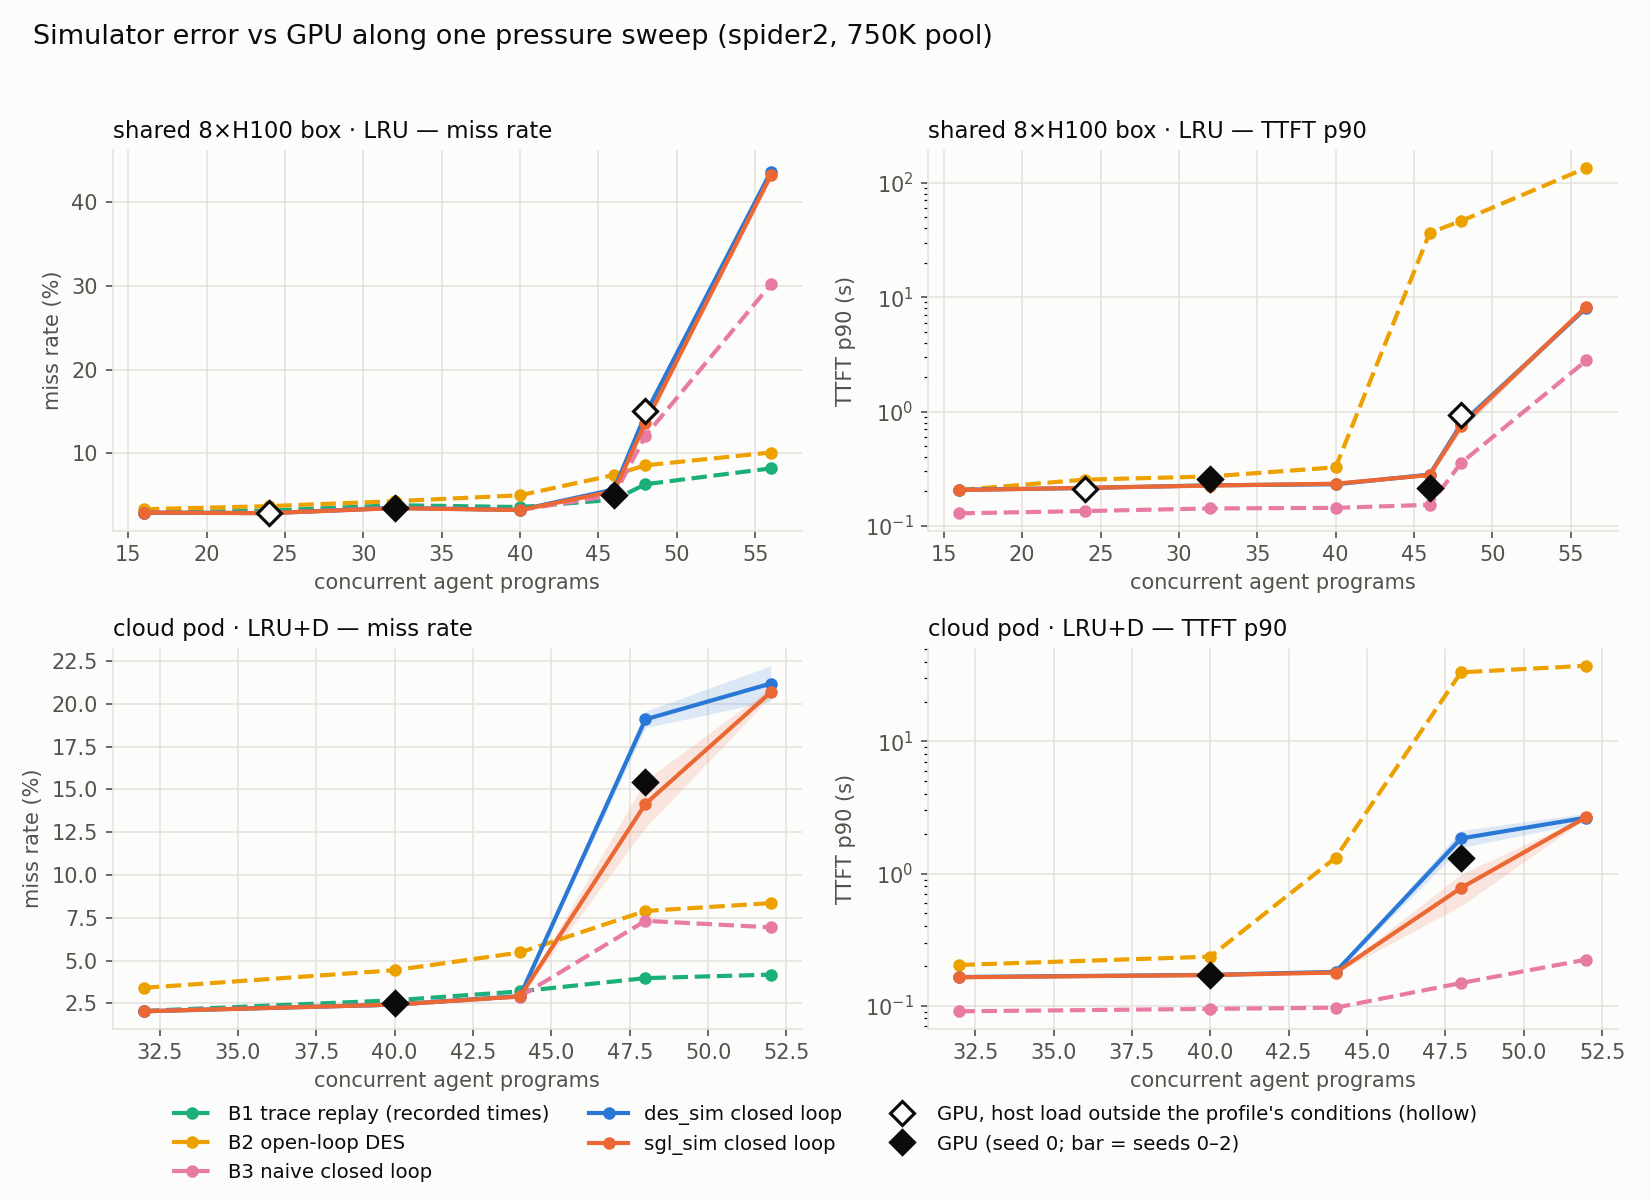
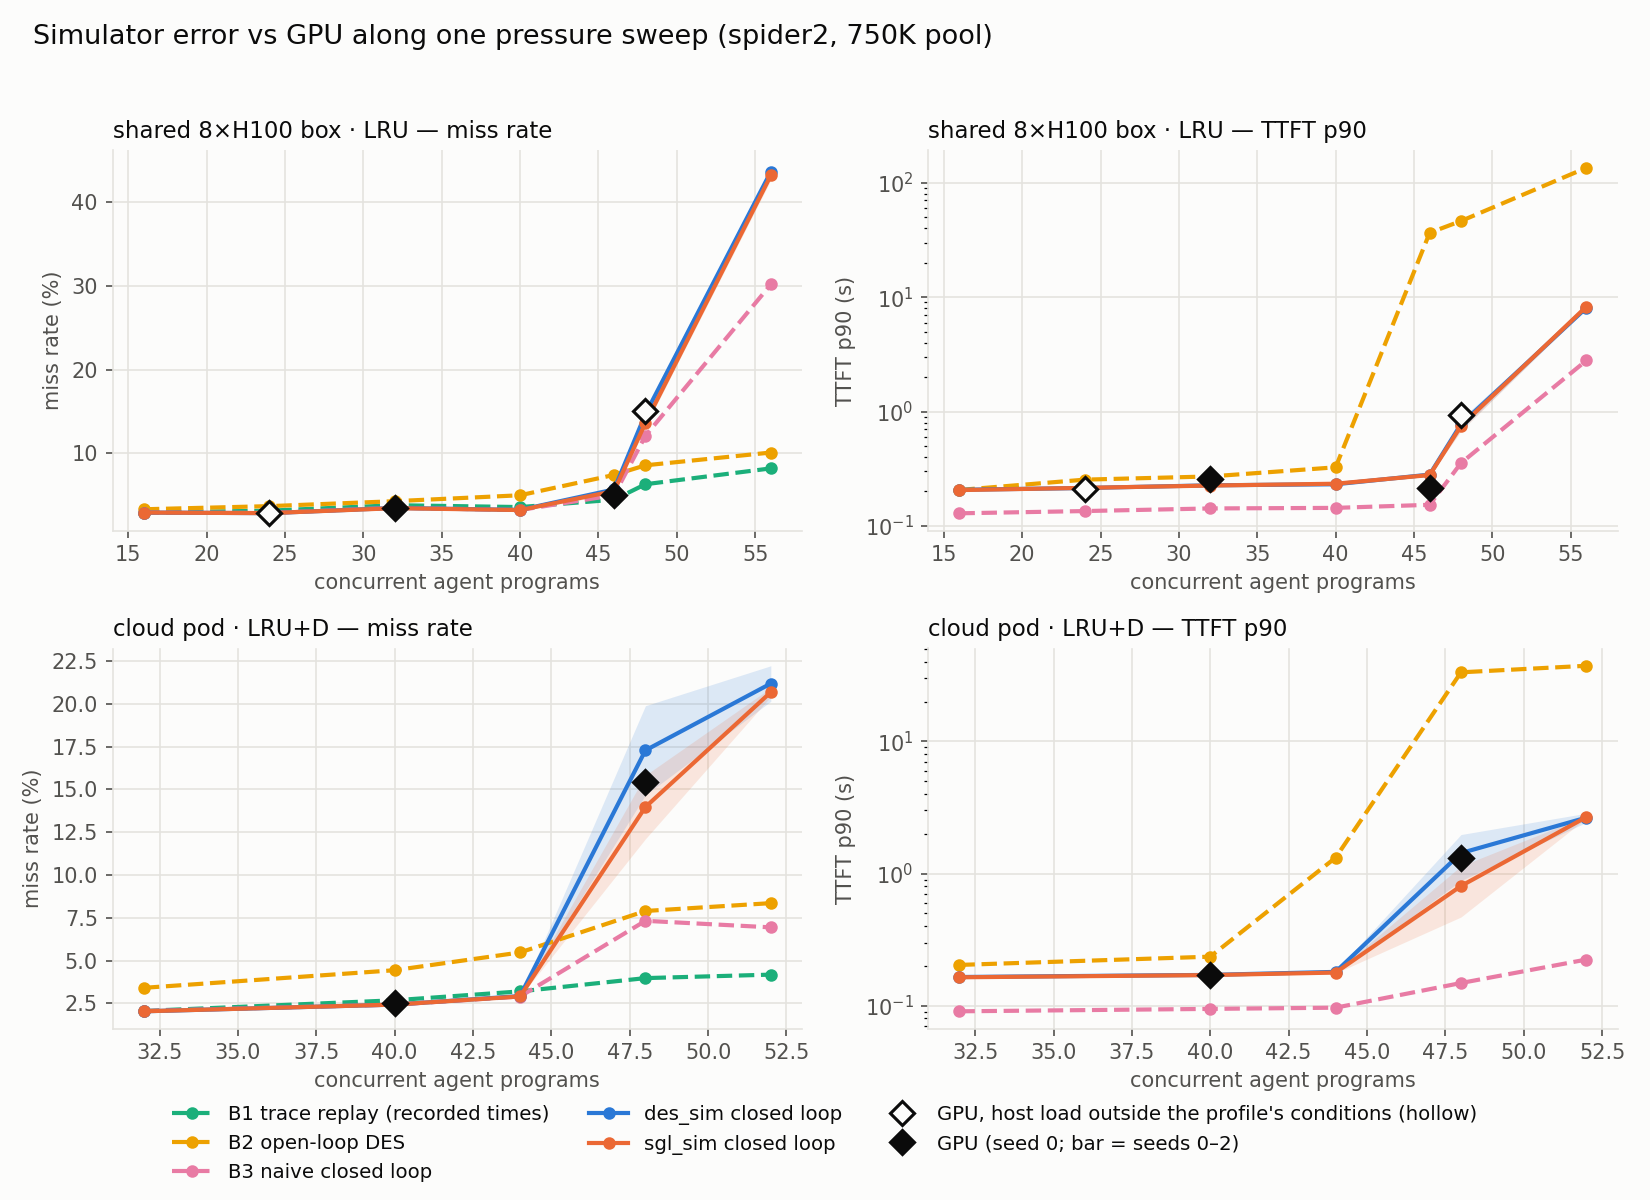
ladder: pod c48 at 10 noise seeds and on both arms' own tokens; policy sign unresolved
- pod c48 seeds 4-10 for des_sim and sgl_sim (run_ladder_tok.sh NSEEDS=), plus the RR-C+D arm's own
  token stream (pod48rr). Paired delta RR-C+D - LRU+D: des_sim -0.92+-0.37 / -0.12+-0.91, sgl_sim
  +1.57+-0.87 / +0.81+-0.69 (se) on the two token streams, GPU -1.56 from one run per arm. The
  3-seed "only des_sim gets the sign" finding is withdrawn.
- the two GPU arms dropped different turns; switching token stream moves the simulated wall by
  1.5-2 pp, as much as the policy does
- analysis/wall_windows.py: GPU vs simulator 5-minute windows (mean +- sd over seeds). Onset and
  LRU+D recovery match; the GPU RR-C+D run recovers faster than 35/40 simulated runs
- ladder_report.py: own-token delta rows per point, sign-only note on the delta table

Changed region(s): [[0.34, 0.555, 0.4636, 0.7708], [0.8036, 0.6783, 0.9582, 0.8017], [0.3091, 0.7708, 0.34, 0.8017]]

diff --git a/analysis/ladder_report.py b/analysis/ladder_report.py
@@ -129,7 +129,7 @@ def write_md(R, G, path, png, tk=None, prev_md=None, own=None):
          "", "- **B1** trace-driven cache replay (`offline_replay.py`): every turn at its recorded time and recorded service time, trials re-packed to the target concurrency (`retime_for_concurrency`); no server model, so no TTFT.",
          "- **B2** open-loop DES (`scripts/ladder/b2_openloop.py --no-stitch`): des_sim's scheduler/cache/step costs, but each (program, turn) arrives at B1's recorded time; completions never feed back.",
          "- **B3** naive closed loop (`closed_loop_sim.py`, defaults incl. decode_overlap 0.5) with its 6 step-cost parameters least-squares projected from the same machine profile (`scripts/ladder/fit_b3_params.py`); no host-load model.",
-         "- **DES** des_sim closed loop, **SGL** sgl_sim closed loop (real SGLang Scheduler + event_loop_overlap, via `scripts/ladder/sgl_tok.py`); both mean ± sd over 3 noise seeds, v1 machine profiles (`local8xh100.json`, `pod0920.json`), host-load timeline of the token arm (local box only).",
+         "- **DES** des_sim closed loop, **SGL** sgl_sim closed loop (real SGLang Scheduler + event_loop_overlap, via `scripts/ladder/sgl_tok.py`); both mean ± sd over 3 noise seeds (10 at pod c48), v1 machine profiles (`local8xh100.json`, `pod0920.json`), host-load timeline of the token arm (local box only).",
          "- **GPU** `gpu_windows.py` on the arm's server.log (local8xh100 = shared 8×H100 box; pod0920 = cloud pod).",
          f"- **Host load is not modelled**: every simulator runs at its machine profile's conditions (no `--load-from`). GPU runs whose host load (cotenant.log `load=`) was outside the profile's envelope -- median > {LOAD_MEDIAN_MAX:.0f} or p10–p90 spread > {LOAD_SPREAD_MAX:.0f} -- are marked **环境超出档案条件**; they are listed but not used for conclusions, and their gaps are not read as simulator error.",
          "- **token** = GPU arm whose ids the point replays (all methods, all policy arms). `*` = borrowed from another concurrency/seed (sim-only points, or a point whose GPU arm is another seed) — same stream, same client type where possible; GPU arms of one point agree on 74–98 % of outputs and on every prompt length.",
@@ -159,6 +159,7 @@ def write_md(R, G, path, png, tk=None, prev_md=None, own=None):
         L.append("")
     # policy-delta sign agreement
     L += ["## Does the simulator get the policy decision right? Δ = RR-C+D − LRU+D (miss pp / U p99 %)", "",
+          "✓ / ✗ compare signs only (Δmiss and ΔU p99 both), not significance; sim Δ is the difference of the seed means. Wall points need the per-seed spread in the Findings.", "",
           "| machine | conc | seed | GPU Δmiss | GPU ΔU p99 | " + " | ".join(f"{m} Δmiss / ΔU p99" for m in METHODS) + " |", "|" + "---|" * (5 + len(METHODS))]
     Ds = [(R, "")] + [(Ro, " (" + token_label({}, *next(iter(Ro))[:3], d) + " tokens)") for Ro, d in (own or (None, {}))[2:]]
     for (k, RD, lab) in sorted(((k, RD, lab) for RD, lab in Ds for k in {(m, c, s) for (m, c, s, a) in RD}), key=lambda x: (x[0], x[2])):
@@ -242,7 +243,10 @@ def main():
     a = ap.parse_args()
     R = collect_sims(a.runs); G = collect_gpu(a.gpu_json); tk = token_arms(a.runs)
     Rrow, tka = own_token_rows(R, G, tk, a.own_runs)
-    extra = [(collect_sims(r), next(iter(token_arms(r).values()))) for r in a.own_runs]   # whole own-token points, for the Δ table
+    extra = []   # whole own-token points (all arms on that token stream), one Δ-table row each
+    for r in a.own_runs:
+        Ro = collect_sims(r)
+        for p, d in sorted(token_arms(r).items()): extra.append(({k: v for k, v in Ro.items() if k[:3] == p}, d))
     write_md(R, G, a.md, a.png, tk, a.prev_md, (Rrow, tka, *extra)); plot(Rrow, G, a.png); print("wrote", a.md)
 
 

diff --git a/analysis/wall_windows.py b/analysis/wall_windows.py
@@ -1,0 +1,44 @@
+#!/usr/bin/env python3
+"""Wall dynamics, window by window: GPU 5-minute windows (gpu_windows.py --json) next to the des_sim / sgl_sim windows of one
+ladder point, mean ± sd over noise seeds. Shows WHEN a wall point diverges (onset, depth, recovery) rather than only the total.
+
+usage: wall_windows.py GPU_JSON POINT_DIR [POINT_DIR ...] --arms rrdeclband0.001,rrdeclchunk1024 [--key miss]
+  GPU_JSON arms are matched to an arm name by the last path component of their directory."""
+import argparse, glob, json, os, re
+import numpy as np
+
+
+def sim_windows(point, key):
+    """-> {(method, arm): [[window values] per seed]}"""
+    out = {}
+    for f in glob.glob(os.path.join(point, "des_n*", "summary.json")):
+        for arm, v in json.load(open(f))["arms"].items():
+            out.setdefault(("DES", arm), []).append([w[key] for w in v["windows"]])
+    for f in glob.glob(os.path.join(point, "sgl_n*", "summary_*.json")):
+        v = json.load(open(f)); out.setdefault(("SGL", v["arm"]), []).append([w[key] for w in v["windows"]])
+    return out
+
+
+def main():
+    ap = argparse.ArgumentParser(description=__doc__, formatter_class=argparse.RawDescriptionHelpFormatter)
+    ap.add_argument("gpu_json"); ap.add_argument("points", nargs="+"); ap.add_argument("--arms", required=True); ap.add_argument("--key", default="miss")
+    a = ap.parse_args(); arms = a.arms.split(",")
+    G = {os.path.basename(d.rstrip("/")): [w[a.key] for w in v["windows"]] for d, v in json.load(open(a.gpu_json)).items()}
+    for arm in arms:
+        g = G.get(arm, [])
+        print(f"== {arm}   ({a.key} per 5-min window)")
+        print("   " + "".join(f"{f'{5 * i}-{5 * i + 5}':>13}" for i in range(max(len(g), 8))))
+        print("GPU" + "".join(f"{x:13.2f}" for x in g))
+        for p in a.points:
+            tok = open(os.path.join(p, "token_arm.txt")).read().split()[0] if os.path.exists(os.path.join(p, "token_arm.txt")) else "?"
+            for (meth, ar), runs in sorted(sim_windows(p, a.key).items()):
+                if ar != arm: continue
+                n = max(map(len, runs)); M = np.full((len(runs), n), np.nan)
+                for i, r in enumerate(runs): M[i, :len(r)] = r
+                mu, sd = np.nanmean(M, 0), np.nanstd(M, 0)
+                print(f"{meth} tok={tok} ×{len(runs)}".ljust(3) + "\n   " + "".join(f"{m:8.2f}±{s:4.1f}" for m, s in zip(mu, sd)))
+        print()
+
+
+if __name__ == "__main__":
+    main()

diff --git a/docs/MOTIVATION_LADDER.md b/docs/MOTIVATION_LADDER.md
@@ -1,17 +1,17 @@
 # Motivation baseline ladder — spider2 terminus x2, 750K pool, fcfs
 
-Generated by `analysis/ladder_report.py` from `scripts/ladder/run_ladder_tok.sh` (v2, 2026-09-28; c46 own-token rows added the same day). **Every method replays the same server-side token input**: the ids one GPU arm of that point actually sent/generated (`scripts/ladder/make_token_stream.py` = `des_sim.ids_from_gpu`), so only the timing / scheduling model differs between methods. Scoring = warm turns, 300 s head / 60 s tail cut, same as `gpu_windows.py`.
+Generated by `analysis/ladder_report.py` from `scripts/ladder/run_ladder_tok.sh` (v2, 2026-09-28). **Every method replays the same server-side token input**: the ids one GPU arm of that point actually sent/generated (`scripts/ladder/make_token_stream.py` = `des_sim.ids_from_gpu`), so only the timing / scheduling model differs between methods. Scoring = warm turns, 300 s head / 60 s tail cut, same as `gpu_windows.py`.
 
 - **B1** trace-driven cache replay (`offline_replay.py`): every turn at its recorded time and recorded service time, trials re-packed to the target concurrency (`retime_for_concurrency`); no server model, so no TTFT.
 - **B2** open-loop DES (`scripts/ladder/b2_openloop.py --no-stitch`): des_sim's scheduler/cache/step costs, but each (program, turn) arrives at B1's recorded time; completions never feed back.
 - **B3** naive closed loop (`closed_loop_sim.py`, defaults incl. decode_overlap 0.5) with its 6 step-cost parameters least-squares projected from the same machine profile (`scripts/ladder/fit_b3_params.py`); no host-load model.
-- **DES** des_sim closed loop, **SGL** sgl_sim closed loop (real SGLang Scheduler + event_loop_overlap, via `scripts/ladder/sgl_tok.py`); both mean ± sd over 3 noise seeds, v1 machine profiles (`local8xh100.json`, `pod0920.json`), host-load timeline of the token arm (local box only).
+- **DES** des_sim closed loop, **SGL** sgl_sim closed loop (real SGLang Scheduler + event_loop_overlap, via `scripts/ladder/sgl_tok.py`); both mean ± sd over 3 noise seeds (10 at pod c48), v1 machine profiles (`local8xh100.json`, `pod0920.json`), host-load timeline of the token arm (local box only).
 - **GPU** `gpu_windows.py` on the arm's server.log (local8xh100 = shared 8×H100 box; pod0920 = cloud pod).
 - **Host load is not modelled**: every simulator runs at its machine profile's conditions (no `--load-from`). GPU runs whose host load (cotenant.log `load=`) was outside the profile's envelope -- median > 100 or p10–p90 spread > 60 -- are marked **环境超出档案条件**; they are listed but not used for conclusions, and their gaps are not read as simulator error.
 - **token** = GPU arm whose ids the point replays (all methods, all policy arms). `*` = borrowed from another concurrency/seed (sim-only points, or a point whose GPU arm is another seed) — same stream, same client type where possible; GPU arms of one point agree on 74–98 % of outputs and on every prompt length.
 - **own** = a row whose GPU arm was run separately from the point's token arm replays that GPU arm's own tokens (`--own-runs`). Two GPU runs of one point can drop different programs mid-run (client ServerDisconnectedError), so they are different workloads: local c46 LRU dropped 93 turns of one program, RR-C+D 90 turns of two others; on the common turns the two token streams give the same B1 miss to the digit. The Δ table below always compares arms on ONE token stream.
 
-Figure: `motivation_ladder.png`
+Figure: `docs/motivation_ladder.png`
 
 ## local8xh100
 
@@ -55,12 +55,14 @@ Figure: `motivation_ladder.png`
 | 40 | 0 | c40s0/rrdeclband0.001 | RR-C+D | n/a (pod, steady) | 2.46 | 2.96 (+0.50) | 5.07 (+2.61) | 2.42 (-0.04) | 2.44±0.00 (-0.02) | 2.42±0.01 (-0.04) | 3656 | 5734 (+57%) | 14013 (+283%) | 3648 (-0%) | 3636 (-1%) | 3645 (-0%) | 0.173 | 0.253 (+46%) | 0.097 (-44%) | 0.174 (+0%) | 0.173 (-0%) |
 | 44 | 0 | c40s0/rrdeclband0.001 * | LRU+D | – | – | 3.20 | 5.48 | 2.90 | 2.93±0.02 | 2.90±0.02 | – | 10905 | 19386 | 3802 | 3990 | 3973 | – | 1.318 | 0.097 | 0.180 | 0.178 |
 | 44 | 0 | c40s0/rrdeclband0.001 * | RR-C+D | – | – | 4.14 | 6.08 | 3.39 | 3.59±0.04 | 3.56±0.11 | – | 10109 | 20408 | 6800 | 7662 | 7716 | – | 2.255 | 0.107 | 0.190 | 0.189 |
-| 48 | 0 | c48s0/rrdeclband0.001 | LRU+D | 11 (10–12) | 15.43 | 3.98 (-11.45) | 7.90 (-7.53) | 7.32 (-8.11) | 19.09±0.48 (+3.66) | 14.15±1.39 (-1.28) | 33300 | 18972 (-43%) | 24543 (-26%) | 26656 (-20%) | 36895 (+11%) | 34013 (+2%) | 1.316 | 33.307 (+2430%) | 0.148 (-89%) | 1.842 (+40%) | 0.777 (-41%) |
-| 48 | 0 | c48s0/rrdeclband0.001 | RR-C+D | 11 (10–12) | 13.86 | 5.10 (-8.76) | 7.99 (-5.87) | 7.63 (-6.23) | 17.58±1.09 (+3.71) | 15.33±2.17 (+1.46) | 30463 | 12359 (-59%) | 24324 (-20%) | 21511 (-29%) | 34958 (+15%) | 31549 (+4%) | 0.893 | 31.957 (+3477%) | 0.180 (-80%) | 1.277 (+43%) | 0.960 (+7%) |
+| 48 | 0 | c48s0/rrdeclband0.001 | LRU+D | 11 (10–12) | 15.43 | 3.98 (-11.45) | 7.90 (-7.53) | 7.32 (-8.11) | 17.28±2.61 (+1.85) | 13.97±1.86 (-1.46) | 33300 | 18972 (-43%) | 24543 (-26%) | 26656 (-20%) | 35699 (+7%) | 33128 (-1%) | 1.316 | 33.307 (+2430%) | 0.148 (-89%) | 1.428 (+8%) | 0.804 (-39%) |
+| 48 | 0 | c48s0/rrdeclchunk1024 (own) | RR-C+D | 11 (10–12) | 13.86 | 4.87 (-9.00) | 7.79 (-6.07) | 7.37 (-6.50) | 18.82±1.80 (+4.95) | 16.82±2.12 (+2.96) | 30463 | 12351 (-59%) | 23810 (-22%) | 20416 (-33%) | 35660 (+17%) | 33927 (+11%) | 0.893 | 31.964 (+3478%) | 0.187 (-79%) | 1.754 (+96%) | 1.405 (+57%) |
 | 52 | 0 | c48s0/rrdeclband0.001 * | LRU+D | – | – | 4.18 | 8.36 | 6.94 | 21.18±1.04 | 20.68±0.25 | – | 20674 | 23372 | 24545 | 36145 | 35980 | – | 37.325 | 0.223 | 2.648 | 2.676 |
 | 52 | 0 | c48s0/rrdeclband0.001 * | RR-C+D | – | – | 5.44 | 8.37 | 7.57 | 21.67±0.90 | 21.02±0.23 | – | 15081 | 23168 | 17060 | 36112 | 35838 | – | 37.096 | 0.201 | 2.614 | 2.651 |
 
 ## Does the simulator get the policy decision right? Δ = RR-C+D − LRU+D (miss pp / U p99 %)
+
+✓ / ✗ compare signs only (Δmiss and ΔU p99 both), not significance; sim Δ is the difference of the seed means. Wall points need the per-seed spread in the Findings.
 
 | machine | conc | seed | GPU Δmiss | GPU ΔU p99 | B1 Δmiss / ΔU p99 | B2 Δmiss / ΔU p99 | B3 Δmiss / ΔU p99 | DES Δmiss / ΔU p99 | SGL Δmiss / ΔU p99 |
 |---|---|---|---|---|---|---|---|---|---|
@@ -77,10 +79,11 @@ Figure: `motivation_ladder.png`
 | pod0920 | 32 | 0 | – | – | 0.10 / 8% | 0.25 / 31% | 0.00 / 0% | 0.00 / 0% | 0.01 / 0% |
 | pod0920 | 40 | 0 | -0.07 | 7 | 0.28 / 61% ✗ | 0.63 / 19% ✗ | -0.01 / 6% ✓ | 0.01 / 5% ✗ | -0.01 / 6% ✓ |
 | pod0920 | 44 | 0 | – | – | 0.94 / -7% | 0.61 / 5% | 0.49 / 79% | 0.67 / 92% | 0.65 / 94% |
-| pod0920 | 48 | 0 | -1.56 | -9 | 1.13 / -35% ✗ | 0.09 / -1% ✗ | 0.31 / -19% ✗ | -1.51 / -5% ✓ | 1.18 / -7% ✗ |
+| pod0920 | 48 | 0 | -1.56 | -9 | 1.13 / -35% ✗ | 0.09 / -1% ✗ | 0.31 / -19% ✗ | -0.92 / -5% ✓ | 1.57 / -3% ✗ |
+| pod0920 | 48 | 0 (c48s0/rrdeclchunk1024 tokens) | -1.56 | -9 | 1.00 / -27% ✗ | 0.14 / -0% ✗ | 0.25 / -19% ✗ | -0.12 / -2% ✓ | 0.81 / -1% ✗ |
 | pod0920 | 52 | 0 | – | – | 1.26 / -27% | 0.01 / -1% | 0.63 / -30% | 0.49 / -0% | 0.34 / -0% |
 
-## Findings (v2, 2026-09-28: GPU tokens, no host-load model)
+## Findings (v2, 2026-09-28: GPU tokens, no host-load model; c46 / pod c48 revised the same evening)
 
 Conclusions use only GPU points run at normal host load: local c32 s0 (all three arms), c32 s1 RR-C+D, c46 LRU and c46 RR-C+D (each on its own GPU tokens), and pod c40 / c48. Points marked **环境超出档案条件** — local c24, c32 s1/s2 LRU and LRU+D, c48 LRU — are listed below, not read as simulator error.
 
@@ -93,10 +96,12 @@ Conclusions use only GPU points run at normal host load: local c32 s0 (all three
    - Pod c48: 7.3 / 7.6 vs 15.4 / 13.9 %. Local c46 RR-C+D: −2.6 pp.
    - At slack it is within ±0.12 pp, but its TTFT is 28–89 % too fast everywhere.
    - "Naive closed loop over-amplifies" still does not hold with a fair calibration.
-4. **Wall points: sgl_sim improved, des_sim did not.**
-   - Pod c48 (host load 11, normal): sgl_sim is −1.28 / +1.46 pp, within its own seed spread (sd 1.4 / 2.2). v1's snapshot run was −3.56 / +4.44. des_sim stays +3.66 / +3.71 pp.
-   - Only des_sim gets the pod c48 policy sign (−1.51 vs GPU −1.56 pp). sgl_sim gives +1.18 pp there, which is inside its 1.4–2.2 pp seed spread. On the three seeds run, sgl_sim cannot resolve the sign at this wall point.
-   - TTFT p90 at pod c48: sgl_sim −41 / +7 %, des_sim +40 / +43 %.
+4. **Pod c48 wall (host load 11, normal): both simulators' seed distributions cover the GPU magnitude, neither resolves the policy sign.** 10 noise seeds; each arm on its own GPU tokens.
+   - LRU+D: sgl_sim 13.97 ± 1.86 (−1.46 pp, −0.8 sd), des_sim 17.28 ± 2.61 (+1.85 pp, +0.7 sd). RR-C+D: sgl_sim 16.82 ± 2.12 (+2.96, +1.4 sd), des_sim 18.82 ± 1.80 (+4.95, +2.7 sd). v1's snapshot sgl_sim run was −3.56 / +4.44.
+   - The two GPU arms dropped different turns (LRU+D 9, RR-C+D 21, incl. 7 turns of a 52K-context program). Replaying the RR-C+D arm's tokens instead of the LRU+D arm's raises the simulated wall by 1.5–2 pp for both arms in both simulators: at this point a dozen dropped turns move the wall as much as the policy does.
+   - Policy delta (RR-C+D − LRU+D, paired by noise seed, mean ± se): des_sim −0.92 ± 0.37 (8/10 seeds negative) on the LRU+D arm's tokens and −0.12 ± 0.91 (5/10) on the RR-C+D arm's; sgl_sim +1.57 ± 0.87 (2/10) and +0.81 ± 0.69 (4/10). GPU −1.56 is one run per arm. The earlier "only des_sim gets the pod c48 sign" came from three seeds and is withdrawn.
+   - Window by window (`analysis/wall_windows.py`): onset (10–15 min) and the LRU+D recovery match — GPU 51 → 28 → 3.4 % in 15–30 min, sgl_sim 38 → 28 → 3.3 %. The one clear mismatch is the GPU RR-C+D run's recovery: 61 → 15 % in 15–25 min, while 35 of 40 simulated RR-C+D runs are still above 20 % in 20–25 min (lowest 18 %). One GPU run cannot tell a lucky run from a recovery mechanism the simulators lack.
+   - TTFT p90: LRU+D sgl_sim −39 % / des_sim +8 %; RR-C+D +57 % / +96 % (the slow recovery above).
 5. **Local c46 (loads 48 / 34, normal): the old −2 pp RR-C+D gap was a workload difference, not simulator error.**
    - The two GPU arms of this point were run on different days and the client dropped different programs mid-run (ServerDisconnectedError): the LRU run lost 93 turns of salesforce001 (context up to 41.6K), the RR-C+D run lost 85 turns of shopify002 (44K) and 5 of hive001. Everything else agrees: prompt lengths are identical turn by turn, the infinite-pool floor is 1.90 vs 1.87 %, and restricted to the 5267 common turns the two token streams give the same B1 miss to the digit (LRU 4.86, RR-C+D 4.43).
    - Each arm on its OWN GPU tokens (row marked "own"): LRU des_sim +0.63 / sgl_sim +0.42 pp; RR-C+D des_sim +0.85 / sgl_sim +0.15 pp (U p99 +17 / +1 %). On the LRU arm's tokens RR-C+D had been −1.73 / −2.17 pp.
@@ -107,11 +112,11 @@ Conclusions use only GPU points run at normal host load: local c32 s0 (all three
    - c24 / c32 s1 / c32 s2 LRU and LRU+D: des_sim and sgl_sim within ±0.07 pp of the GPU.
 
 **Shape verdict (v2):**
-- **Holds:** the open-loop classes (B1, B2) miss the capacity wall by 6–11 pp and misplace slack points; naive closed loop under-amplifies; the scheduler-faithful closed loop reproduces slack within ±0.1 pp and the pod wall magnitude (sgl_sim within its seed spread).
-- **Does not hold yet:** "ours within noise at every point": des_sim at the pod wall is +3.7 pp, and sgl_sim cannot resolve the pod c48 policy sign on three seeds. (Local c46 RR-C+D, −1.7 to −2.2 pp in the first v2 pass, is +0.15 / +0.85 pp once it replays its own tokens.)
+- **Holds:** the open-loop classes (B1, B2) miss the capacity wall by 6–11 pp and misplace slack points; naive closed loop under-amplifies; the scheduler-faithful closed loop reproduces slack within ±0.1 pp, and at the pod wall its seed distribution covers the GPU run (−0.8 to +1.4 sd for sgl_sim).
+- **Does not hold yet:** "ours within noise at every point": des_sim's RR-C+D at the pod wall is +2.7 sd, and no simulator resolves the pod c48 policy sign (10 seeds, two token streams); the GPU side has one run per arm, so a wall-point policy claim needs GPU repeats. (Local c46 RR-C+D, −1.7 to −2.2 pp in the first v2 pass, is +0.15 / +0.85 pp once it replays its own tokens.)
 - **Method rule:** compare a GPU arm only with simulations of its own tokens, and compare two GPU arms only if they dropped the same programs (or on their common turns).
 
-Resource peak for this pass: 3 simulation processes × 2 threads, ≈ 12 GB (token parse 3.6 GB per process). Runs: `scratchpad/ladder_tok/runs_noload/`; c46 own-token rows `runs_owntok/` (`POINTS='add_point local8xh100 46 0 $ALL sp46rr' RUNS=runs_owntok`), common-turn check `runs_x/`. The earlier pass with a host-load timeline (97 csv, stopped part-way) is kept in `scratchpad/ladder_tok/runs_withload/` for comparison only.
+Resource peak for this pass: 3 simulation processes × 2 threads, ≈ 12 GB (token parse 3.6 GB per process). Runs: `scratchpad/ladder_tok/runs_noload/`; c46 own-token rows `runs_owntok/` (`POINTS='add_point local8xh100 46 0 $ALL sp46rr' RUNS=runs_owntok`), common-turn check `runs_x/`; pod c48 seeds 4–10 `NSEEDS="4 5 6 7 8 9 10"`, pod c48 own-token rows `runs_owntok/pod0920`. The earlier pass with a host-load timeline (97 csv, stopped part-way) is kept in `scratchpad/ladder_tok/runs_withload/` for comparison only.
 
 ## Previous pass (v1, kept for comparison)
 
